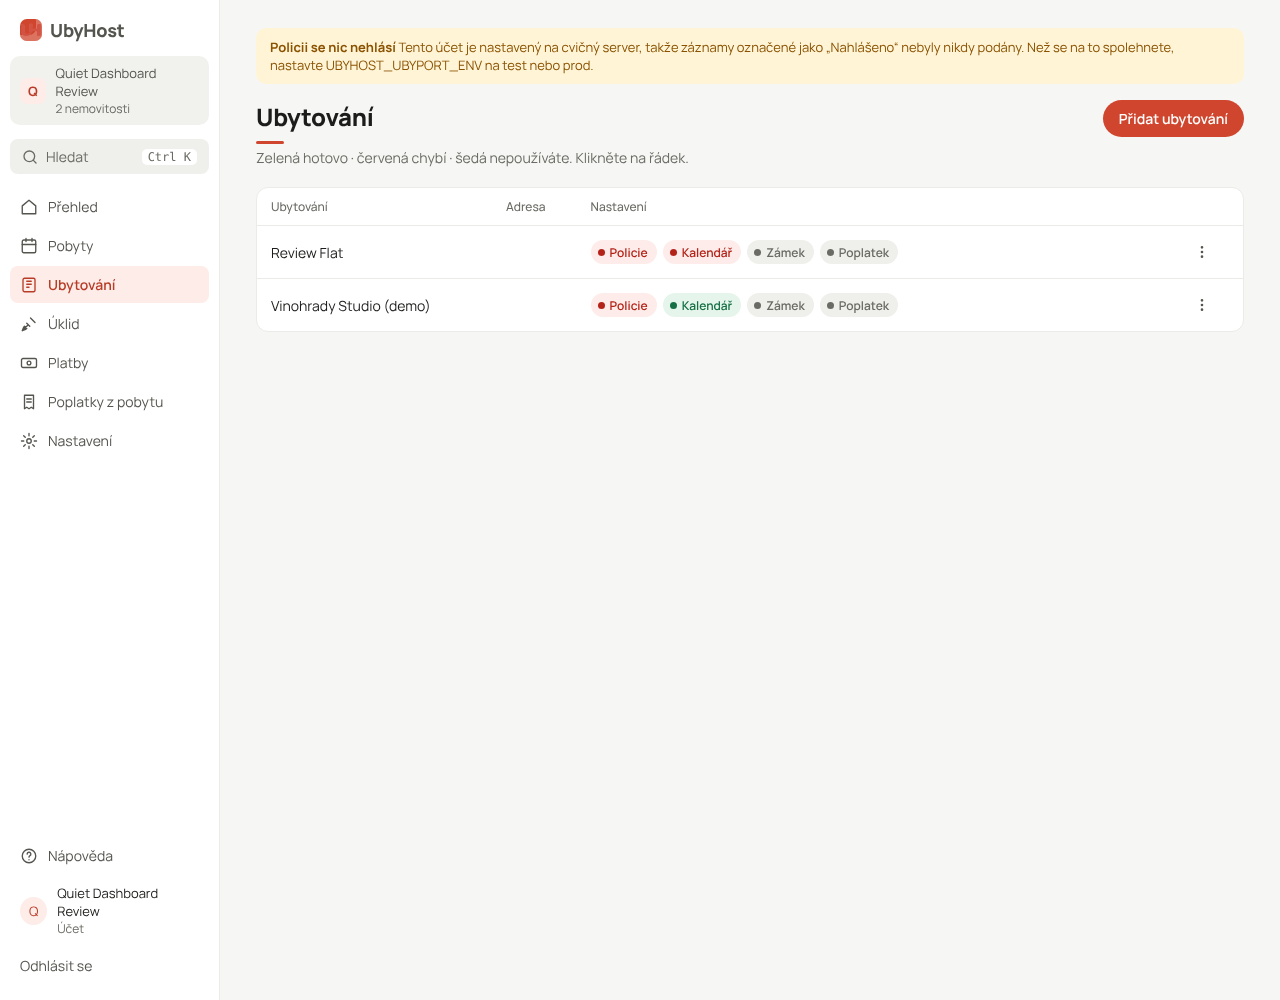
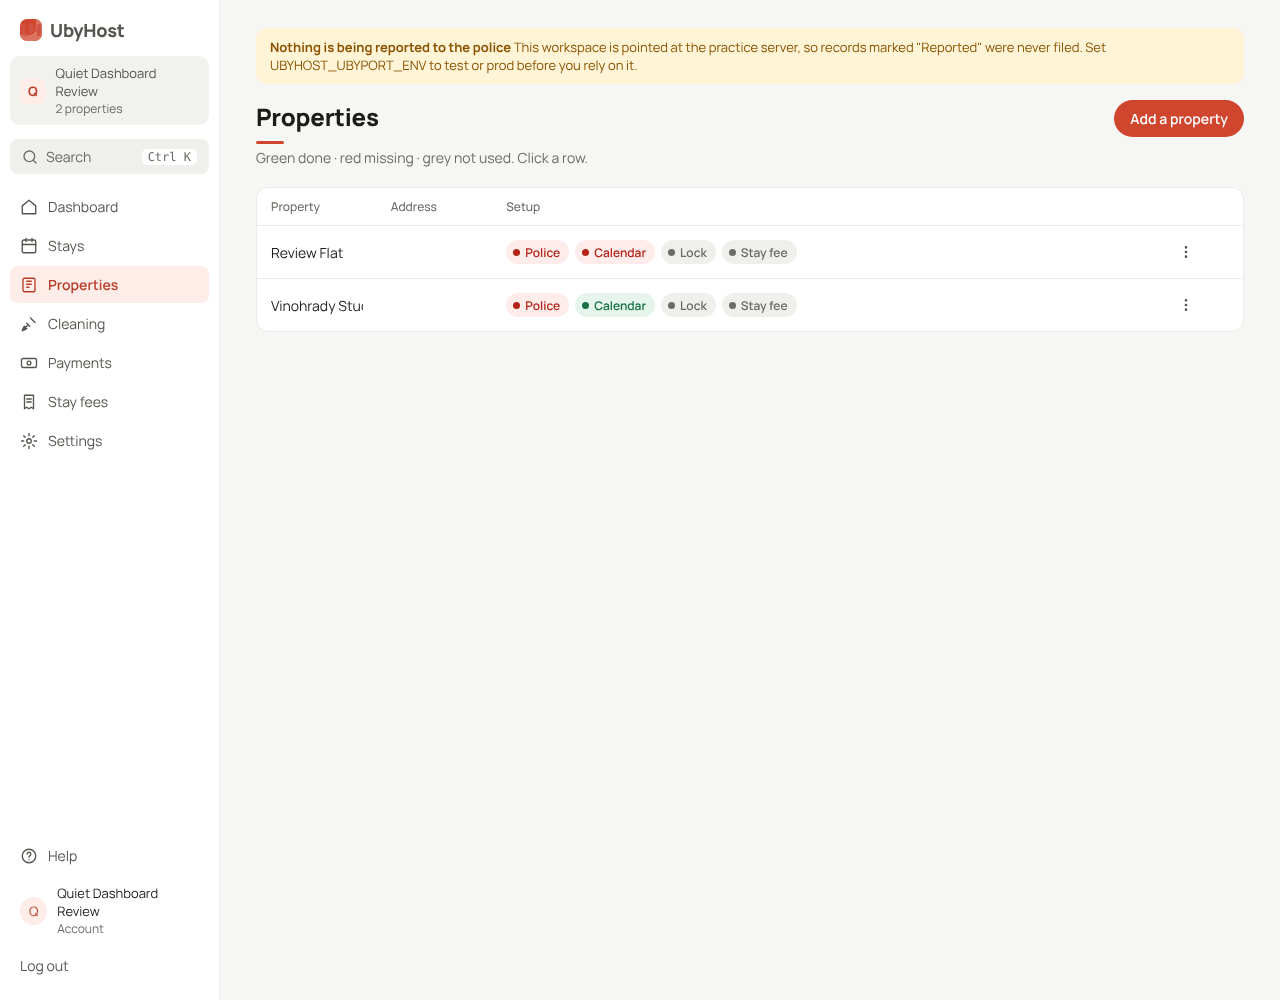
0532 pass 11: chips wrap when needed, no sideways scroll
Claude-Session: https://claude.ai/code/session_01Cjmb7RTWt49tdnVR6DtQ99

diff --git a/App/app/static/app2.css b/App/app/static/app2.css
@@ -208,8 +208,9 @@ body.v2 .props-card .row-primary-link{display:inline-block;min-height:24px;paddi
 /* 0532: a list row opens on click, so it shows the pointer */
 body.v2 .props-card tbody tr.clickable-row{cursor:pointer}
 @media (max-width:1023px){body.v2 .props-card .st{min-height:44px;max-width:100%;white-space:normal}body.v2 .props-card .row-primary-link{min-height:44px}}
-/* 0532 pass 9: from 1024 px a list row is one line (mockup 53 px): the setup chips stay on one line and the copy button is 24 px, not 60 px */
-@media (min-width:1024px){body.v2 .props-card .setup{flex-wrap:nowrap}body.v2 .props-card .setup .st{height:24px}body.v2 .props-card .copy-btn{height:28px;min-height:28px;padding-block:6px}body.v2 .props-card .copy-btn svg{width:16px;height:16px}body.v2 .props-card .row-primary-link .property-identity > span:last-child{white-space:nowrap;overflow:hidden;text-overflow:ellipsis;min-width:0}body.v2 .props-card > table td:nth-child(2){max-width:0;white-space:nowrap;overflow:hidden;text-overflow:ellipsis}}
+/* 0532 pass 9: from 1024 px a list row is one line (mockup 53 px): the copy button is 24 px, not 60 px. Pass 11: the setup chips may wrap when they do not fit (no sideways scroll); name and address cells are one line with ellipsis */
+@media (min-width:1024px){body.v2 .props-card .setup .st{height:24px}body.v2 .props-card .copy-btn{height:28px;min-height:28px;padding-block:6px}body.v2 .props-card .copy-btn svg{width:16px;height:16px}body.v2 .props-card .row-primary-link .property-identity > span:last-child{white-space:nowrap;overflow:hidden;text-overflow:ellipsis;min-width:0}body.v2 .props-card > table td:nth-child(1),body.v2 .props-card > table td:nth-child(2){max-width:0;white-space:nowrap;overflow:hidden;text-overflow:ellipsis}}
+@media (min-width:1024px){body.v2 .props-card > table td:nth-child(1) .row-primary-link{display:block;max-width:100%;min-width:0;overflow:hidden}}
 @media (max-width:1023px){body.v2 .props-card > table th:nth-child(2),body.v2 .props-card > table td:nth-child(2){display:none}}
 @media (max-width:767px){body.v2 .props-card > table th:nth-child(3),body.v2 .props-card > table td:nth-child(3){display:table-cell}}
 @media (max-width:1023px){body.v2 .props-card > table{table-layout:fixed;width:100%}body.v2 .props-card > table th:nth-child(4),body.v2 .props-card > table td:nth-child(4){width:96px}body.v2 .props-card > table th:nth-child(5),body.v2 .props-card > table td:nth-child(5){width:44px}body.v2 .props-card > table td.nowrap{white-space:normal}body.v2 .props-card .setup{flex-wrap:wrap}body.v2 .props-card .btn{white-space:normal}}

diff --git a/App/app/templates/base.html b/App/app/templates/base.html
@@ -18,7 +18,7 @@
   <link rel="preload" href="/static/fonts/Manrope-latin.woff2?v=20261101-0495" as="font" type="font/woff2" crossorigin>
   {% if v2 | default(false) %}
   <link rel="stylesheet" href="/static/tokens.css?v=20261101-0495">
-  <link rel="stylesheet" href="/static/app2.css?v=20261101-0532s">
+  <link rel="stylesheet" href="/static/app2.css?v=20261101-0532u">
   {% else %}
   <link rel="stylesheet" href="/static/tokens.css?v=20261101-0495">
   <link rel="stylesheet" href="/static/app.css?v=20261027-signup-wrap">

diff --git a/docs/tasks/0532-report.md b/docs/tasks/0532-report.md
@@ -202,3 +202,17 @@ Group 2 tail: `105 passed in 225.12s`, 0 skipped. 0385 left out (file deleted).
 design_lint: OK. context_lint: OK.
 
 Deviations: browser runs rewrote unrelated tracked PNGs (docs/tasks/0102-evidence, screenshots-0410); restored with git checkout.
+
+## Executor pass 11 (brief 0532, orchestrator decision: chips wrap when needed, no sideways scroll)
+Status: **review**. Done: all steps. The sideways scroll from pass 10 is fixed.
+
+Change (App/app/static/app2.css, 1024 px block): removed `body.v2 .props-card .setup{flex-wrap:nowrap}`, so chips wrap when they do not fit. The name cell (`td:nth-child(1)`) now has the address cell's one-line rule (max-width:0, nowrap, ellipsis). The name link is `display:block; max-width:100%; min-width:0; overflow:hidden` at 1024 px, so it stays inside its cell and keeps its tap target. Pass 9 comment updated. Key bumped to `0532u` in base.html; `static_versions.json` rewritten with `--write`.
+
+Commands (from App/, browser env set):
+- `tests/test_host_properties_navigation.py tests/test_host_ux_acceptance.py tests/test_0710_v2_mockup_match_browser.py tests/test_static_versions.py tests/test_design_guardrails_browser.py -q --tb=short -rfs`: `59 passed in 210.51s`, 0 skipped.
+- `python3 scripts/design_lint.py`: `design lint: OK`
+- `python3 scripts/context_lint.py`: `context lint: OK`
+
+Screenshots: `docs/tasks/screenshots-0532/app-1280.png` and `app-768.png` retaken from the 0710 test's `test_v2_screenshots` (UBYHOST_SHOTS_V2=1, `properties-{width}.png`). Other screenshots not retaken. The generated files in screenshots-0710 were restored and not committed.
+
+Deviations: none. The 0710 test passes for `properties` at all six widths (inside the 59 passed).
